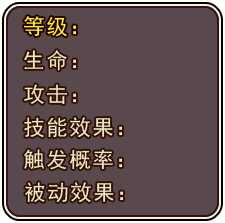
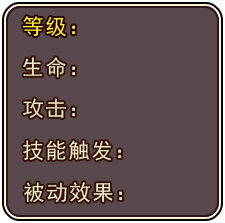
星级进阶修改

Changed region(s): [[0.0933, 0.2152, 0.56, 0.7803], [0.0933, 0.8072, 0.56, 0.9148], [0.0933, 0.0538, 0.3733, 0.1883]]

diff --git a/client/cocos2d-x-2.2.1/projects/Magpie/Resources/src/view/mainModule/cardEvolutionLabel.js b/client/cocos2d-x-2.2.1/projects/Magpie/Resources/src/view/mainModule/cardEvolutionLabel.js
@@ -32,13 +32,16 @@ var CardEvolutionLabel = cc.Layer.extend({
     _evolutionEffect: null,
     _index: null,
     _newCard: null,
+    _virtualCard: null,
 
     _cardLvLabel: [],
     _cardHpLabel: [],
     _cardAtkLabel: [],
-    _cardSkillLabel: [],
     _cardSkillRateLabel: [],
     _cardPssSkillLabel: [],
+    _oldStarIcon: [],
+    _newStarIcon: [],
+
 
     onEnter: function () {
         cc.log("CardEvolutionLayer onEnter");
@@ -91,23 +94,19 @@ var CardEvolutionLabel = cc.Layer.extend({
             this._resLabel.addChild(this._cardLvLabel[i]);
 
             this._cardHpLabel[i] = cc.LabelTTF.create("0", "STHeitiTC-Medium", 22);
-            this._cardHpLabel[i].setPosition(-140 + i * 290, 48);
+            this._cardHpLabel[i].setPosition(-140 + i * 290, 41);
             this._resLabel.addChild(this._cardHpLabel[i]);
 
-            this._cardAtkLabel[i] = cc.LabelTTF.create("0","STHeitiTC-Medium", 22);
-            this._cardAtkLabel[i].setPosition(-140 + i * 290, 14);
+            this._cardAtkLabel[i] = cc.LabelTTF.create("0", "STHeitiTC-Medium", 22);
+            this._cardAtkLabel[i].setPosition(-140 + i * 290, 0);
             this._resLabel.addChild(this._cardAtkLabel[i]);
 
-            this._cardSkillLabel[i] = cc.LabelTTF.create("0%","STHeitiTC-Medium", 22);
-            this._cardSkillLabel[i].setPosition(-95 + i * 290, -17);
-            this._resLabel.addChild(this._cardSkillLabel[i]);
-
-            this._cardSkillRateLabel[i] = cc.LabelTTF.create("0%","STHeitiTC-Medium", 22);
-            this._cardSkillRateLabel[i].setPosition(-95 + i * 290, -51);
+            this._cardSkillRateLabel[i] = cc.LabelTTF.create("0%", "STHeitiTC-Medium", 22);
+            this._cardSkillRateLabel[i].setPosition(-95 + i * 290, -41);
             this._resLabel.addChild(this._cardSkillRateLabel[i]);
 
-            this._cardPssSkillLabel[i] = cc.LabelTTF.create("1","STHeitiTC-Medium", 22);
-            this._cardPssSkillLabel[i].setPosition(-95 + i * 290, -85);
+            this._cardPssSkillLabel[i] = cc.LabelTTF.create("0", "STHeitiTC-Medium", 22);
+            this._cardPssSkillLabel[i].setPosition(-95 + i * 290, -82);
             this._resLabel.addChild(this._cardPssSkillLabel[i]);
 
         }
@@ -121,7 +120,6 @@ var CardEvolutionLabel = cc.Layer.extend({
         this.addChild(helpBgSprite);
 
         this._evolutionRateLabel = cc.LabelTTF.create("0%", "STHeitiTC-Medium", 22);
-        this._evolutionRateLabel.setColor(cc.c3b(118, 238, 60));
         this._evolutionRateLabel.setPosition(cc.p(320, 695));
         this.addChild(this._evolutionRateLabel);
 
@@ -133,10 +131,22 @@ var CardEvolutionLabel = cc.Layer.extend({
             starBgIcon.setPosition(cc.p(x, y));
             this.addChild(starBgIcon);
 
+            this._oldStarIcon[i] = cc.Sprite.create(main_scene_image.star1);
+            this._oldStarIcon[i].setScaleX(0.68);
+            this._oldStarIcon[i].setScaleY(0.75);
+            this._oldStarIcon[i].setPosition(cc.p(x, y));
+            this.addChild(this._oldStarIcon[i]);
+
             x = point.x + 240;
             var starBgIcon2 = cc.Sprite.create(main_scene_image.icon339);
             starBgIcon2.setPosition(cc.p(x, y));
             this.addChild(starBgIcon2);
+
+            this._newStarIcon[i] = cc.Sprite.create(main_scene_image.star1);
+            this._newStarIcon[i].setScaleX(0.68);
+            this._newStarIcon[i].setScaleY(0.75);
+            this._newStarIcon[i].setPosition(cc.p(x, y));
+            this.addChild(this._newStarIcon[i]);
         }
 
         this._tipLabel = cc.Node.create();
@@ -233,6 +243,11 @@ var CardEvolutionLabel = cc.Layer.extend({
             this._leadCardHalfNode = null;
         }
 
+        if (this._newCard) {
+            this._newCard.removeFromParent();
+            this._newCard = null;
+        }
+
         if (this._leadCard == null) {
             this._retinueCard = [];
 
@@ -247,6 +262,11 @@ var CardEvolutionLabel = cc.Layer.extend({
                     )
                 )
             );
+
+            for (var i = 0; i < 5; i++) {
+                this._oldStarIcon[i].setVisible(false);
+                this._newStarIcon[i].setVisible(false);
+            }
 
             this._resLabel.setVisible(false);
             this._helpLabel.setVisible(false);
@@ -277,11 +297,37 @@ var CardEvolutionLabel = cc.Layer.extend({
             this._cardLvLabel[0].setString(this._leadCard.get("lv") + "/" + this._leadCard.get("maxLv"));
             this._cardHpLabel[0].setString(this._leadCard.get("hp"));
             this._cardAtkLabel[0].setString(this._leadCard.get("atk"));
-            this._cardSkillLabel[0].setString(this._leadCard.get("skillHarm"));
-            this._cardSkillRateLabel[0].setString(this._leadCard.get("skillRate"));
-            var star = this._leadCard.get("star");
+            this._cardSkillRateLabel[0].setString(this._leadCard.get("skillRate") + "%");
 
-            this._cardPssSkillLabel[0].setString();
+            var star = this._leadCard.get("star");
+            var num = (star < 3) ? 0 : star - 2;
+            this._cardPssSkillLabel[0].setString(num);
+
+            for (var i = 0; i < star; i++) {
+                this._oldStarIcon[i].setVisible(true);
+            }
+
+            if (star < 5) {
+
+                this._virtualCard = lz.clone(this._leadCard);
+                this._virtualCard.set("tableId", this._leadCard.get("tableId") + 1);
+                this._virtualCard.virtualCard();
+
+                this._cardLvLabel[1].setString(this._virtualCard.get("lv") + "/" + this._virtualCard.get("maxLv"));
+                this._cardHpLabel[1].setString(this._virtualCard.get("hp"));
+                this._cardAtkLabel[1].setString(this._virtualCard.get("atk"));
+                this._cardSkillRateLabel[1].setString(this._virtualCard.get("skillRate") + "%");
+                this._cardPssSkillLabel[1].setString(num + 1);
+
+                for (var i = 0; i <= star; i++) {
+                    this._newStarIcon[i].setVisible(true);
+                }
+
+                this._newCard = CardHalfNode.create(this._virtualCard);
+                this._newCard.setScale(1.1);
+                this._newCard.setPosition(cc.p(465, 710));
+                this.addChild(this._newCard, 1);
+            }
 
             this._helpLabel.setVisible(true);
             this._tipLabel.setVisible(false);
@@ -298,9 +344,35 @@ var CardEvolutionLabel = cc.Layer.extend({
             rate = Math.min(rate, 100);
 
             this._evolutionRateLabel.setString(rate + "%");
+            if (rate == 100) {
+                this._evolutionRateLabel.setColor(cc.c3b(118, 238, 60));
+            } else {
+                this._evolutionRateLabel.setColor(cc.c3b(0, 0, 0));
+            }
             this._cardCountLabel.setString(cardCount);
 
             this._evolutionItem.setEnabled(true);
+        }
+    },
+
+    _update: function (state) {
+        cc.log("CardEvolutionLayer _update: " + state);
+
+        if (state == EVOLUTION_SUCCESS) {
+            this._leadCardHalfNode.removeFromParent();
+            this._leadCardHalfNode = null;
+
+            this._cardLvLabel[0].setString("");
+            this._cardHpLabel[0].setString("");
+            this._cardAtkLabel[0].setString("");
+            this._cardSkillRateLabel[0].setString("");
+            this._cardPssSkillLabel[0].setString("");
+            this._evolutionRateLabel.setString("");
+
+            for (var i = 0; i < 5; i++) {
+                this._oldStarIcon[i].setVisible(false);
+            }
+
         }
     },
 
@@ -373,15 +445,14 @@ var CardEvolutionLabel = cc.Layer.extend({
             if (state != EVOLUTION_ERROR) {
                 CardEvolutionLayer.pop({card: card, state: state});
             }
-            that.update();
-
+            //that.update();
+            that._update(state);
         }, cardIdList);
     },
 
     _onClickNewCard: function () {
         cc.log("CardEvolutionLayer _onClickNewCard");
-
-
+        CardDetails.pop(this._virtualCard);
     }
 
 });

diff --git a/client/cocos2d-x-2.2.1/projects/Magpie/Resources/src/model/card.js b/client/cocos2d-x-2.2.1/projects/Magpie/Resources/src/model/card.js
@@ -335,6 +335,12 @@ var Card = Entity.extend({
         return (this._lv < this._maxLv);
     },
 
+    virtualCard: function () {
+        this._loadCardTable();
+        this._loadSkillTable();
+        this._calculateAddition();
+    },
+
     upgrade: function (cb, cardIdList) {
         cc.log("Card upgrade " + this._id);
         cc.log(cardIdList);
